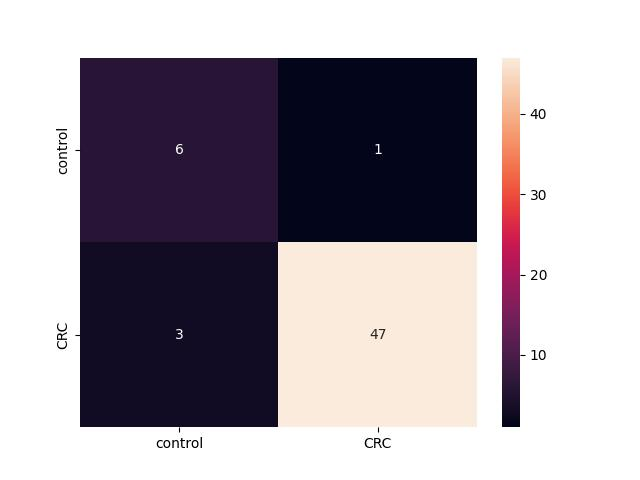
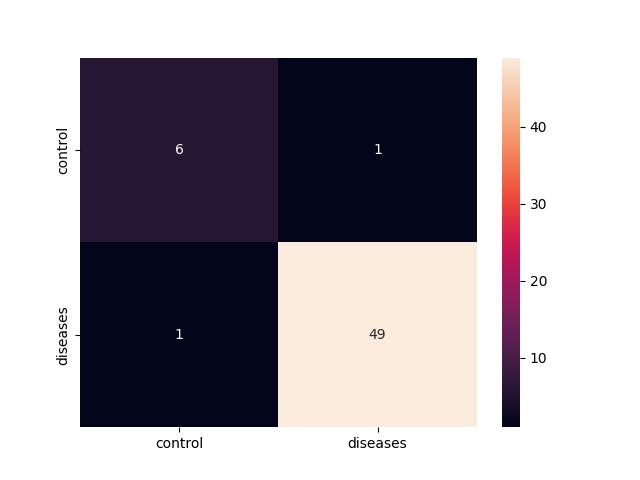
update

diff --git a/evalBin.py b/evalBin.py
@@ -1,0 +1,101 @@
+import numpy as np
+import pandas as pd
+import seaborn as sns
+import matplotlib.pyplot as plt
+
+import torch
+import torch.nn as nn
+import torch.nn.functional as F
+from torch.utils.data import Dataset, DataLoader, WeightedRandomSampler
+
+from sklearn.metrics import confusion_matrix, classification_report
+
+class2idx = {
+    "control":0,
+    "diseases":1,
+}
+
+idx2class = {v: k for k, v in class2idx.items()}
+
+num_features = 8630
+n_hidden_1 = 8192
+num_classes = 2
+testloader = []
+checkpoint_path="checkpoints/ckp_bin.pt"
+checkpoint_last_path="checkpoints/ckp_bin_last.pt"
+
+with open('data/val_bin.npy', 'rb') as f:
+    x_test0 = np.load(f)
+with open('data/val_bin_target.npy', 'rb') as f:
+    y_test0 = np.load(f)
+
+with open('data/test_bin.npy', 'rb') as f:
+    x_test1 = np.load(f)
+with open('data/test_bin_target.npy', 'rb') as f:
+    y_test1 = np.load(f)
+
+x_test = np.concatenate([x_test0, x_test1])
+y_test = np.concatenate([y_test0, y_test1])
+
+x_test = np.array(x_test, np.float32)
+
+# x_test, y_test = torch.from_numpy(x_test), torch.from_numpy(y_test).type(torch.LongTensor)
+class ClassifierDataset(Dataset):
+    
+    def __init__(self, X_data, y_data):
+        self.X_data = X_data
+        self.y_data = y_data
+        
+    def __getitem__(self, index):
+        return self.X_data[index], self.y_data[index]
+        
+    def __len__ (self):
+        return len(self.X_data)
+
+
+# train_dataset = ClassifierDataset(torch.from_numpy(x_train).float(), torch.from_numpy(y_train).long())
+test_dataset = ClassifierDataset(torch.from_numpy(x_test).float(), torch.from_numpy(y_test).long())
+
+# trainloader = DataLoader(dataset=train_dataset,
+#                           batch_size=batch_size)
+testloader = DataLoader(dataset=test_dataset, batch_size=1)
+# for (i,j) in zip(x_test, y_test):
+#     testloader.append([i,j])
+# testloader = torch.utils.data.DataLoader(testloader, shuffle=True, batch_size=1)
+
+class Net(nn.Module):
+    def __init__(self):
+        super().__init__()
+        self.fc1 = nn.Linear(num_features, n_hidden_1)
+        self.layer_out = nn.Linear(n_hidden_1, num_classes)
+        
+        self.dropout = nn.Dropout(p=0.1)
+        self.batchnorm1 = nn.BatchNorm1d(n_hidden_1)
+
+    def forward(self, x):
+        x = F.relu(self.batchnorm1(self.fc1(x)))
+        x = F.log_softmax(self.layer_out(x),-1)
+        return x
+device = torch.device("cuda:0" if torch.cuda.is_available() else "cpu")
+
+model = Net()
+
+checkpoint_dict = torch.load(checkpoint_last_path, map_location='cpu')
+print("f1 score: ", checkpoint_dict['f1'])
+model.load_state_dict(checkpoint_dict['net'])
+model.to(device)
+
+y_pred_list = []
+with torch.no_grad():
+    model.eval()
+    for X_batch, _ in testloader:
+        X_batch = X_batch.to(device)
+        y_test_pred = model(X_batch)
+        _, y_pred_tags = torch.max(y_test_pred, dim = 1)
+        y_pred_list.append(y_pred_tags.cpu().numpy())
+y_pred_list = [a.squeeze().tolist() for a in y_pred_list]
+
+confusion_matrix_df = pd.DataFrame(confusion_matrix(y_test, y_pred_list)).rename(columns=idx2class, index=idx2class)
+fig = sns.heatmap(confusion_matrix_df, annot=True)
+fig.get_figure().savefig("confusion_matrix_bin.jpg")
+print(classification_report(y_test, y_pred_list))

diff --git a/trainBin.py b/trainBin.py
@@ -46,8 +46,8 @@ checkpoint_last_path="checkpoints/ckp_bin_last.pt"
 train_acc_MAX=0
 # val_acc_MAX = 0
 best_f1_score = 0
-EPOCHS = 5000
-batch_size = 128
+EPOCHS =10000
+batch_size = 246
 trainloader = []
 testloader = []
 
@@ -226,7 +226,7 @@ net.to(device)
 criterion = nn.CrossEntropyLoss()
 # optimizer = optim.SGD(net.parameters(), lr=0.0001, momentum=0.9)
 # optimizer = optim.Adam(net.parameters(), lr=0.0001, weight_decay= 1e-4)
-optimizer = torch.optim.AdamW(net.parameters(), lr=0.001, weight_decay=0.01, amsgrad=False)
+optimizer = torch.optim.AdamW(net.parameters(), lr=0.0001, weight_decay=0.01, amsgrad=False)
 # scheduler = torch.optim.lr_scheduler.MultiStepLR(optimizer, milestones=[10000,14000,18000], gamma=0.1)
 
 print(net)
@@ -248,6 +248,7 @@ print("Begin training.")
 
 last_loss = 1000
 trigger_times = 0
+patience = 5
 for epoch in range(1, EPOCHS+1):
 
     # TRAINING
@@ -318,7 +319,8 @@ for epoch in range(1, EPOCHS+1):
     #     torch.save(state, model_file_path)
     #     train_acc_MAX = accTrain_e
     #     val_acc_MAX = accVal_e
-    if f1 >= best_f1_score:
+    current_loss = val_epoch_loss/len(testloader)
+    if f1 >= best_f1_score and current_loss < last_loss:
         best_f1_score = f1
         state = {'net': net.state_dict(), 'optimizer': optimizer.state_dict(), 'epoch':epoch, 'f1': best_f1_score}
         torch.save(state, model_file_path)
@@ -326,7 +328,7 @@ for epoch in range(1, EPOCHS+1):
     # print(f'Epoch {epoch+0:03}: | LR: {lr:.5f} | Train Loss: {train_epoch_loss/len(trainloader):.5f} | Val Loss: {val_epoch_loss/len(testloader):.5f} | Train Acc: {train_epoch_acc/len(trainloader):.3f}| Val Acc: {val_epoch_acc/len(testloader):.3f}')
     if epoch%50==0:
         print(f'Epoch {epoch+0:04}: | LR: {lr:.5f} | Train Loss: {train_epoch_loss/len(trainloader):.5f} | Val Loss: {val_epoch_loss/len(testloader):.5f} | F1 score: {f1:.3f}')
-    current_loss = val_epoch_loss/len(testloader)
+    
     if current_loss > last_loss:
         last_loss = current_loss 
         trigger_times += 1
@@ -337,6 +339,7 @@ for epoch in range(1, EPOCHS+1):
             break
     else:
         trigger_times = 0
+        last_loss = current_loss 
 state = {'net': net.state_dict(), 'optimizer': optimizer.state_dict(), 'epoch':epoch, 'f1': f1}
 torch.save(state, checkpoint_last_path)
 print('Finished Training')
